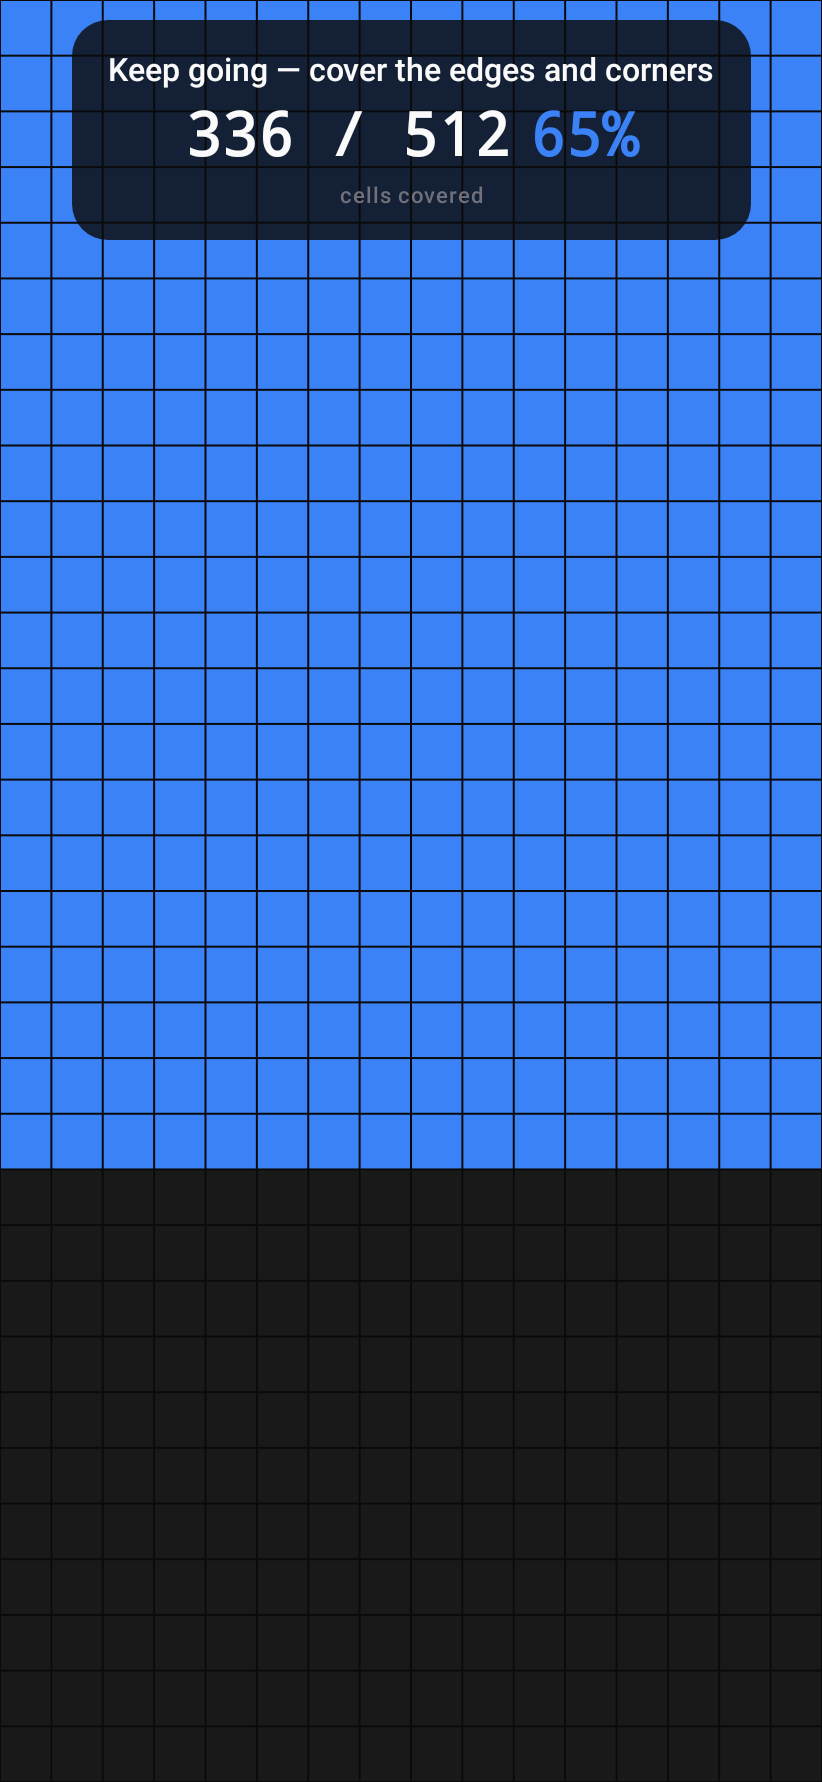
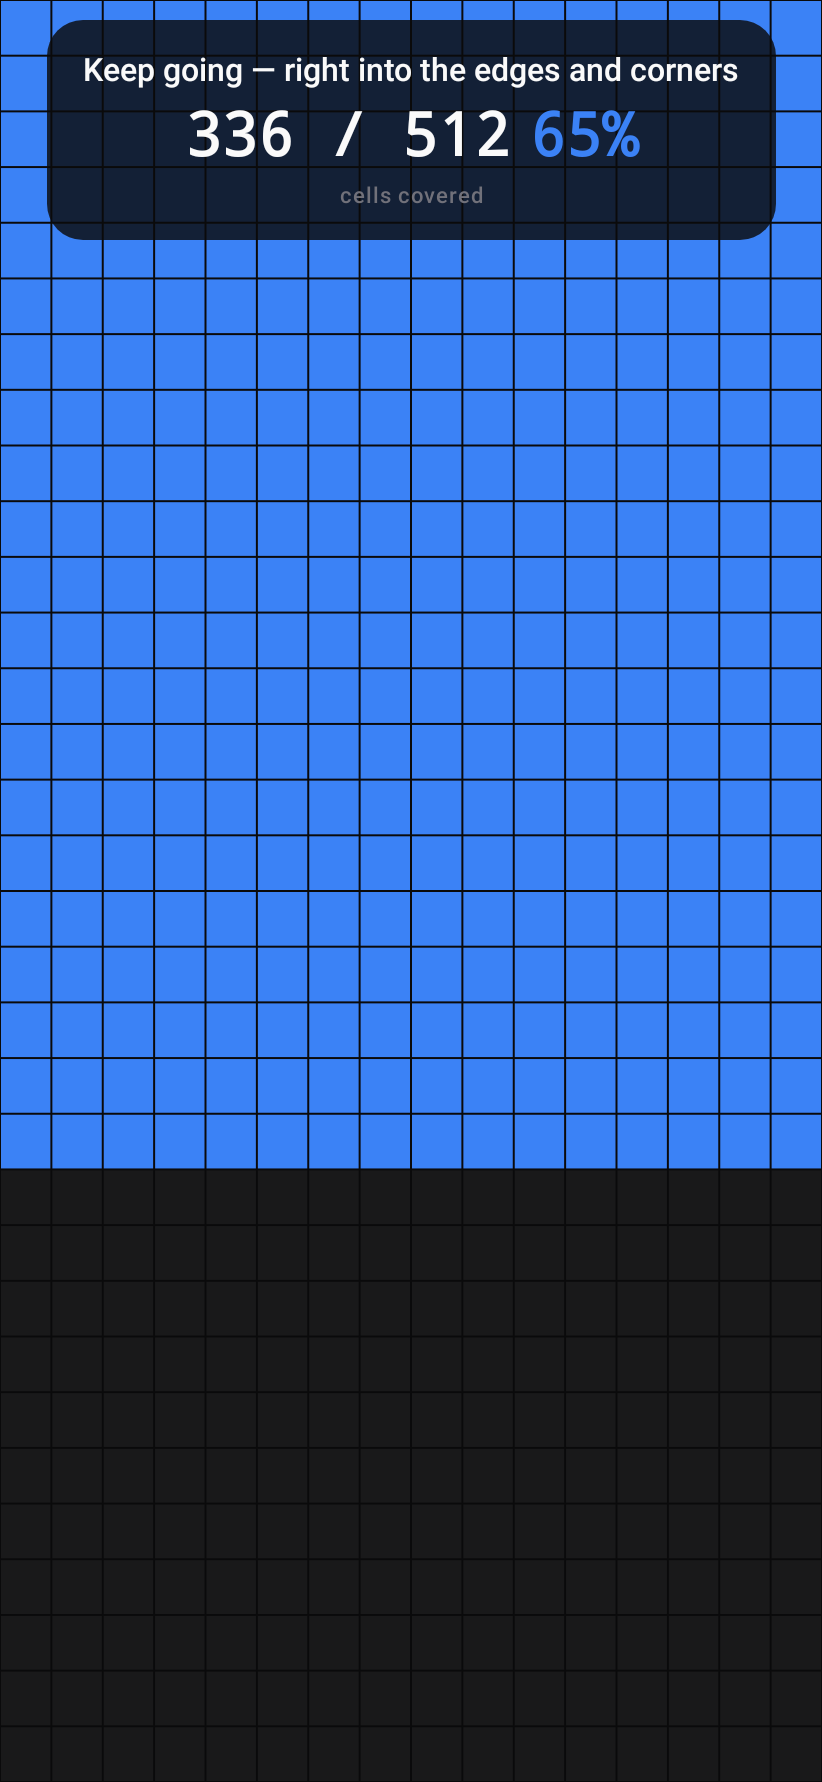
Re-render the touch grid, and make a can't-tell action readable
Three renders change. The grid no longer draws the gesture strips dimmed with "no
need to touch here" across them, the readout says "right into the edges and
corners", and the count reads 266 / 512 rather than over a reduced denominator.

The verdict render also exposed a contrast bug that this PR makes common. The action
line is coloured by the outcome, which is right for PASS, CAUTION and FAIL — it ties
what to do to how bad it is. UNKNOWN's colour is a deliberately quiet grey, correct
for the badge because the absence of a finding must not shout, and on a dark card it
made the action the least readable line on the screen.

That line is the only one the buyer has to act on, and an unattributable touch result
is now a routine outcome rather than a rarity, so it is drawn in primary ink for
UNKNOWN only. The badge stays grey.

Pre-existing rather than introduced here — every can't-tell result had it, including
the battery — but this PR is what turns it from an edge case into something a buyer
will meet.

Changed region(s): [[0.0304, 0.0, 0.5474, 0.1543], [0.5779, 0.0, 0.9428, 0.1543]]

diff --git a/core/designsystem/src/main/kotlin/com/phoneproof/core/designsystem/component/CheckResultCard.kt b/core/designsystem/src/main/kotlin/com/phoneproof/core/designsystem/component/CheckResultCard.kt
@@ -140,7 +140,19 @@ fun CheckResultCard(
             Text(
                 text = it,
                 style = MaterialTheme.typography.labelLarge,
-                color = accent,
+                // The outcome colour, except for UNKNOWN.
+                //
+                // Colouring the action by outcome is right for PASS, CAUTION and FAIL: it ties what to
+                // do to how bad it is. UNKNOWN's colour is a deliberately quiet grey — correct for the
+                // badge, which must not shout about the absence of a finding — and on a dark card it
+                // made the action the least readable line on the screen. That is the one line the
+                // buyer has to act on, and "can't tell" results are the ones where they most need
+                // telling what to do next.
+                color = if (result.outcome == CheckOutcome.UNKNOWN) {
+                    PhoneProofTheme.colors.textPrimary
+                } else {
+                    accent
+                },
             )
         }
 
